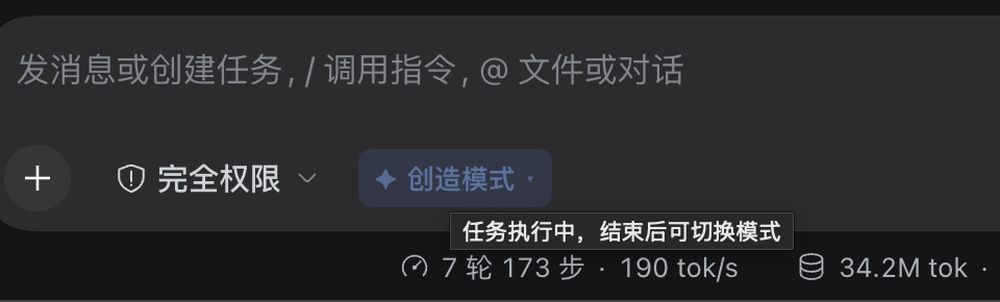
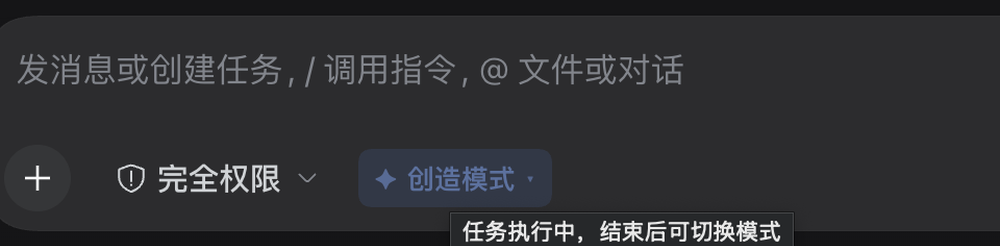
docs: 重新裁切 README 截图，移除空白过多的演示 GIF
- 首屏改为「chip + 四项菜单」单张截图，构图完整、无大块留白
- 删除 demo.gif 与 menu.png，中英文 README 同步更新
- 裁掉 disabled 截图底部被切开的统计行
- 版本 0.1.1（仅文档与素材，无代码变更）

diff --git a/README.en.md b/README.en.md
@@ -13,7 +13,7 @@
 </div>
 
 <p align='center'>
-  <img src='./docs/images/demo.gif' width='820' alt='Clicking the mode chip in the composer toolbar opens a four-mode menu; the chip switches immediately after choosing; the chip is disabled while a turn is running' />
+  <img src='./docs/images/hero.png' width='720' alt='Mode chip in the composer toolbar and the four-mode menu: the current Standard row is checked, each row shows its abilities and remembered model' />
 </p>
 
 DSH removes the official preset picker as soon as a conversation produces content. **dsh-four-modes** puts a picker back into the composer: a chip that shows the current mode, and a menu that switches it. The switch reuses the DSH `recompose()` path, so the next request rebuilds tool declarations — no new session, no lost context.
@@ -77,10 +77,6 @@ Earlier community switchers hard-code preset ids (for example `ptc` for PTC mode
 </p>
 
 Clicking the chip opens the menu. The current mode is checked, every row carries a one-line description, and a row that remembers a model appends that model name.
-
-<p align='center'>
-  <img src='./docs/images/menu.png' width='560' alt='Four-mode menu opened from the chip: Standard, PTC, Minimal, Creator, current row checked, remembered model shown' />
-</p>
 
 - **Viewport aware**: the composer sits at the bottom, so a menu that would overflow flips upward instead of being clipped.
 - **Keyboard friendly**: `Escape` or a click outside closes the menu.

diff --git a/README.md b/README.md
@@ -13,7 +13,7 @@
 </div>
 
 <p align='center'>
-  <img src='./docs/images/demo.gif' width='820' alt='点击输入框工具栏的模式 chip 展开四个模式菜单，选择后 chip 立即切换；任务执行中 chip 被禁用' />
+  <img src='./docs/images/hero.png' width='720' alt='输入框工具栏中的模式 chip 与四项菜单：当前「标准模式」打勾，每项显示能力说明与记忆的模型' />
 </p>
 
 项目一旦产出内容，DSH 官方的 preset 选择器就消失了。**dsh-four-modes** 把选择器装回输入框：一个显示当前模式的 chip，点开即切；也可以直接输入 `/mode next`。切换复用 DSH 自己的 `recompose()` 机制，下一轮请求按新模式重建工具声明 —— 不重开会话，不丢上下文。
@@ -79,10 +79,6 @@ DSH 自带四种内置 Agent 模式（preset），但官方只在**新建会话*
 </p>
 
 点击 chip 展开菜单：当前模式打勾，每项带一句能力说明；用过「模式 + 模型」组合的话，说明后会追加记忆的模型名。
-
-<p align='center'>
-  <img src='./docs/images/menu.png' width='560' alt='点击 chip 展开四项菜单：标准模式 / PTC 模式 / 极简模式 / 创造模式，当前项打勾，并显示记忆的模型' />
-</p>
 
 - **视口自适应**：输入框贴着窗口底部，下方空间不足时菜单向上展开，永远不会被 composer 裁掉。
 - **键盘友好**：`Escape`、点击菜单外任意位置都会关闭。

diff --git a/CHANGELOG.md b/CHANGELOG.md
@@ -2,6 +2,14 @@
 
 所有值得注意的变更都记录在这里。格式参考 [Keep a Changelog](https://keepachangelog.com/zh-CN/1.1.0/)，版本号遵循 [SemVer](https://semver.org/lang/zh-CN/)。
 
+## [0.1.1] - 2026-11-23
+
+### Changed（仅文档与素材，无代码变更）
+
+- 重新裁切 README 首屏图：换成「chip + 四项菜单」单张截图，去掉会露出大块空白区域的演示 GIF。
+- 裁掉输入框截图底部被切开的统计行。
+- 中英文 README 同步：删除已废弃的 `menu.png` / `demo.gif` 引用。
+
 ## [0.1.0] - 2026-11-23
 
 首个公开版本。
